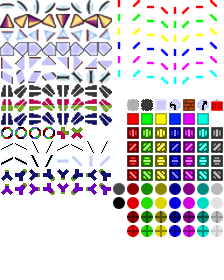
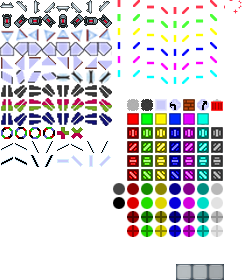
gestione bordini dei laser + migliorato un po' di codice a giro
git-svn-id: svn+ssh://pixbits.com/svn/cpp-lazers@25 c3e5c5ec-6158-4a85-881a-c4ab5472a772

diff --git a/lazers.cpp b/lazers.cpp
@@ -128,25 +128,25 @@ void Gfx::clear(u32 color)
 void Gfx::render(Game *game)
 {
   clear(ccc(220, 220, 220));
-  
-  //rect = {0,0,20,20};
-  //SDL_BlitSurface(Gfx::tiles, &rect, screen, &rect);
-  
+
+  // draw field
+  SDL_Rect bgRect = {176,264,16,16};
+  for (int i = 0; i < FIELD_WIDTH; ++i)
+  {
+    for (int j = 0; j < FIELD_HEIGHT; ++j)
+    {
+      SDL_Rect tileRect = {static_cast<Sint16>(coordX(i, false)), static_cast<Sint16>(coordY(j)), 15, 15};
+      SDL_BlitSurface(tiles, &bgRect, screen, &tileRect);
+      
+      if (i < INVENTORY_WIDTH && j < INVENTORY_HEIGHT)
+      {
+        SDL_Rect tileRect = {static_cast<Sint16>(coordX(i+FIELD_WIDTH, true)), static_cast<Sint16>(coordY(j)), 15, 15};
+        SDL_BlitSurface(tiles, &bgRect, screen, &tileRect);
+      }
+    }
+  }
+
   lock();
-  
-  u32 color = ccc(180, 180, 180);
-  
-  for (int i = 0; i < FIELD_WIDTH+1; ++i)
-    line(coordX(i, false), coordY(0), coordX(i, false), coordY(FIELD_HEIGHT), color);
-  
-  for (int i = 0; i < FIELD_HEIGHT+1; ++i)
-    line(coordX(0, false), coordY(i), coordX(FIELD_WIDTH, false), coordY(i), color);
-  
-  for (int i = 0; i < INVENTORY_WIDTH+1; ++i)
-    line(coordX(i+FIELD_WIDTH, true), coordY(0), coordX(i+FIELD_WIDTH, true), coordY(INVENTORY_HEIGHT), color);
-  
-  for (int i = 0; i < INVENTORY_HEIGHT+1; ++i)
-    line(coordX(FIELD_WIDTH, true), coordY(i), coordX(FIELD_WIDTH+INVENTORY_WIDTH, true), coordY(i), color);
   
   rect(coordX(game->position->x, true), coordY(game->position->y), TILE_SIZE, TILE_SIZE, ccc(180, 0, 0));
   
@@ -180,7 +180,7 @@ void Gfx::drawField(Game *game)
       if (tile->piece())
       {
         SDL_Rect src = tile->piece()->gfxRect();
-        SDL_Rect dst = {static_cast<s16>(coordX(x, false)+1),static_cast<s16>(coordY(y)+1),0,0};
+        SDL_Rect dst = ccr(coordX(x, false)+1,coordY(y)+1,0,0);
         SDL_BlitSurface(tiles, &src, screen, &dst);
       }
       
@@ -188,10 +188,63 @@ void Gfx::drawField(Game *game)
       {
         if (tile->colors[i])
         {
-          SDL_Rect src = {static_cast<s16>(PIECE_SIZE*8+(PIECE_SIZE)*i),static_cast<s16>(PIECE_SIZE*(tile->colors[i]-1)),PIECE_SIZE,PIECE_SIZE};
-          SDL_Rect dst = {static_cast<s16>(coordX(x, false)+1),static_cast<s16>(coordY(y)+1),0,0};
+          SDL_Rect src = ccr(PIECE_SIZE*8+(PIECE_SIZE)*i, PIECE_SIZE*(tile->colors[i]-1), PIECE_SIZE, PIECE_SIZE);
+          SDL_Rect dst = ccr(coordX(x, false)+1, coordY(y)+1, 0, 0);
           SDL_BlitSurface(tiles, &src, screen, &dst);
         }
+      }
+      
+      // diagonal middle filler '\'
+      if (tile->colors[NORTH_WEST] && tile->colors[NORTH_WEST] == tile->colors[SOUTH_EAST])
+      {
+        SDL_Rect src = ccr(PIECE_SIZE*17, PIECE_SIZE*(tile->colors[NORTH_WEST]-1) + 5, 4, 4);
+        SDL_Rect dst = ccr(coordX(x, false)+ 1 + 5, coordY(y)+ 1 + 5, 0, 0);
+        SDL_BlitSurface(tiles, &src, screen, &dst);
+      }
+      // diagonal middle filler '/'
+      if (tile->colors[SOUTH_WEST] && tile->colors[SOUTH_WEST] == tile->colors[NORTH_EAST])
+      {
+        SDL_Rect src = ccr(PIECE_SIZE*17, PIECE_SIZE*(tile->colors[SOUTH_WEST]-1), 4, 4);
+        SDL_Rect dst = ccr(coordX(x, false)+ 1 + 5, coordY(y)+ 1 + 5, 0, 0);
+        SDL_BlitSurface(tiles, &src, screen, &dst);
+      }
+      
+      
+      
+      Tile *upper = y > 0 ? field->tileAt(x, y-1) : nullptr;
+      Tile *left = x > 0 ? field->tileAt(x-1, y) : nullptr;
+      Tile *upperLeft = upper && left ? field->tileAt(x-1, y-1) : nullptr;
+      Tile *upperRight = upper && x < FIELD_WIDTH ? field->tileAt(x+1, y-1) : nullptr;
+      
+      // place horizontal fillers
+      if (tile->colors[NORTH] && (upper && upper->colors[SOUTH] == tile->colors[NORTH]))
+      {
+        SDL_Rect src = ccr(PIECE_SIZE*16,PIECE_SIZE*(tile->colors[NORTH]-1),PIECE_SIZE,1);
+        SDL_Rect dst = ccr(coordX(x, false)+1,coordY(y),0,0);
+        SDL_BlitSurface(tiles, &src, screen, &dst);
+      }
+      
+      // place vertical fillers
+      if (tile->colors[WEST] && (left && left->colors[EAST] == tile->colors[WEST]))
+      {
+        SDL_Rect src = ccr(PIECE_SIZE*16,PIECE_SIZE*(tile->colors[WEST]-1),1,PIECE_SIZE);
+        SDL_Rect dst = ccr(coordX(x, false),coordY(y)+1,0,0);
+        SDL_BlitSurface(tiles, &src, screen, &dst);
+      }
+      
+      // place cross filler upper left
+      if (tile->colors[NORTH_WEST] && (upperLeft && upperLeft->colors[SOUTH_EAST] == tile->colors[NORTH_WEST]))
+      {
+        SDL_Rect src = ccr(PIECE_SIZE*16 + 9,PIECE_SIZE*(tile->colors[NORTH_WEST]-1) + 9 , 5, 5);
+        SDL_Rect dst = ccr(coordX(x, false)-2,coordY(y)-2,0,0);
+        SDL_BlitSurface(tiles, &src, screen, &dst);
+      }
+      // place cross filler upper right
+      if (tile->colors[NORTH_EAST] && (upperRight && upperRight->colors[SOUTH_WEST] == tile->colors[NORTH_EAST]))
+      {
+        SDL_Rect src = ccr(PIECE_SIZE*16 + 9,PIECE_SIZE*(tile->colors[NORTH_EAST]-1) + 9 , 5, 5);
+        SDL_Rect dst = ccr(coordX(x+1, false)-2,coordY(y)-2,0,0);
+        SDL_BlitSurface(tiles, &src, screen, &dst);
       }
     }
   

diff --git a/files.cpp b/files.cpp
@@ -1,0 +1,104 @@
+//
+//  lazers.cpp
+//  TestSDL
+//
+//  Created by Jack on 1/9/14.
+//  Copyright (c) 2014 Jack. All rights reserved.
+//
+
+#include "files.h"
+#include "lazers.h"
+
+struct PieceInfoSpec
+{
+  PieceType type;
+  u8 mapping;
+  bool canBeColored;
+  bool canBeRotated;
+};
+
+PieceInfoSpec specs[PIECES_COUNT] =
+{
+  {PIECE_WALL, 'W', false, false},
+  {PIECE_GLASS, 'y', false, false},
+  {PIECE_SOURCE, 'S', true, true},
+  {PIECE_MIRROR, 'M', false, true},
+  {PIECE_SKEW_MIRROR, 'K', false, true},
+  {PIECE_DOUBLE_MIRROR, 'D', false, true},
+  {PIECE_DOUBLE_SKEW_MIRROR, 'J', false, true},
+  {PIECE_DOUBLE_PASS_MIRROR, 'P', false, true},
+  {PIECE_DOUBLE_SPLITTER_MIRROR, 'd', false, true},
+  {PIECE_SPLITTER, 'T', false, true},
+  {PIECE_DSPLITTER, 'U', false, true},
+  {PIECE_PRISM, 'p', false, true},
+  {PIECE_BENDER, 'B', false, false},
+  {PIECE_TWISTER, 'b', false, false},
+  {PIECE_FILTER, 'F', true, false},
+  {PIECE_ROUND_FILTER, 'f', false, true},
+  {PIECE_POLARIZER, 'Z', true, true},
+  {PIECE_TUNNEL, 'u', false, true},
+  {PIECE_COLOR_SHIFTER, 'H', false, true},
+  {PIECE_COLOR_INVERTER, 'I', false, true},
+  {PIECE_CROSS_COLOR_INVERTER, 'X', false, true},
+  {PIECE_STAR_SPLITTER, 'x', false, false},
+  {PIECE_GATE, 'G', false, true},
+  {PIECE_PRIMARY_GATE, 'g', false, true},
+  {PIECE_QUANTUM_SPLITTER, 'Q', false, true},
+  {PIECE_TELEPORTER, 'E', false, false},
+  {PIECE_COMPLEX_PRISM, 'i', false, true},
+  {PIECE_THREE_WAY_SPLITTER, 'r', false, true},
+  {PIECE_TNT, 'N', false, false},
+  {PIECE_SLIME, 'm', false, false},
+  {PIECE_MINE, 'e', false, false},
+  {PIECE_STRICT_GOAL, 'V', true, false},
+  {PIECE_LOOSE_GOAL, 'v', true, false}
+};
+
+u8 Files::charForPiece(PieceType type)
+{
+  for (int i = 0; i < sizeof(specs)/sizeof(specs[0]); ++i)
+    if (specs[i].type == type)
+      return specs[i].mapping;
+  
+  return 0;
+}
+
+PieceType Files::pieceForChar(u8 type)
+{
+  for (int i = 0; i < sizeof(specs)/sizeof(specs[0]); ++i)
+    if (specs[i].mapping == type)
+      return specs[i].type;
+  
+  return PIECE_WALL;
+}
+
+const int PIECE_INFO_SIZE = 1 + 2 + 2 + 1 + 1 + 1 + 1;
+
+union PieceInfo
+{
+  char buffer[PIECE_INFO_SIZE];
+  struct {
+    u8 type;
+    u8 x1;
+    u8 x2;
+    u8 y1;
+    u8 y2;
+    u8 dir;
+    u8 col;
+    u8 mov;
+    u8 rot;
+  };
+};
+
+
+
+void Files::loadPiece(std::istream is, Field *field)
+{
+  /*char buffer[PIECE_INFO_SIZE];
+  is.read(buffer, PIECE_INFO_SIZE);
+  
+  PieceType type = pieceForChar(buffer[0]);
+  Piece *piece;
+  
+  switch*/
+}

diff --git a/files.h b/files.h
@@ -1,0 +1,27 @@
+//
+//  lazers.h
+//  TestSDL
+//
+//  Created by Jack on 1/9/14.
+//  Copyright (c) 2014 Jack. All rights reserved.
+//
+
+#ifndef _FILES_H_
+#define _FILES_H_
+
+#include "common.h"
+#include <fstream>
+
+class Field;
+
+class Files
+{
+  
+  public:
+    u8 charForPiece(PieceType type);
+    PieceType pieceForChar(u8 type);
+  
+    void loadPiece(std::istream is, Field *field);
+};
+  
+#endif

diff --git a/lazers.h b/lazers.h
@@ -62,6 +62,11 @@ public:
   
   //static inline color makeColor(u8 r, u8 g, u8 b) { return (color){r,g,b,0}; }
   
+  static inline SDL_Rect ccr(int x, int y, int w, int h)
+  {
+    return SDL_Rect{static_cast<s16>(x),static_cast<s16>(y),static_cast<u16>(w),static_cast<u16>(h)};
+  }
+  
   static inline u32 ccc(u8 r, u8 g, u8 b)
   {
     return SDL_MapRGB(format, r, g, b);

diff --git a/common.h b/common.h
@@ -52,7 +52,6 @@ enum PieceType : u8
   PIECE_WALL,
   PIECE_GLASS,
   PIECE_SOURCE,
-  PIECE_TARGET,
   PIECE_MIRROR,
   PIECE_SKEW_MIRROR,
   PIECE_DOUBLE_MIRROR,
@@ -84,7 +83,9 @@ enum PieceType : u8
   PIECE_MINE, // TODO
 
   PIECE_STRICT_GOAL,
-  PIECE_SPLIT_GOAL
+  PIECE_LOOSE_GOAL,
+  
+  PIECES_COUNT
 };
   
 enum Direction : u8
